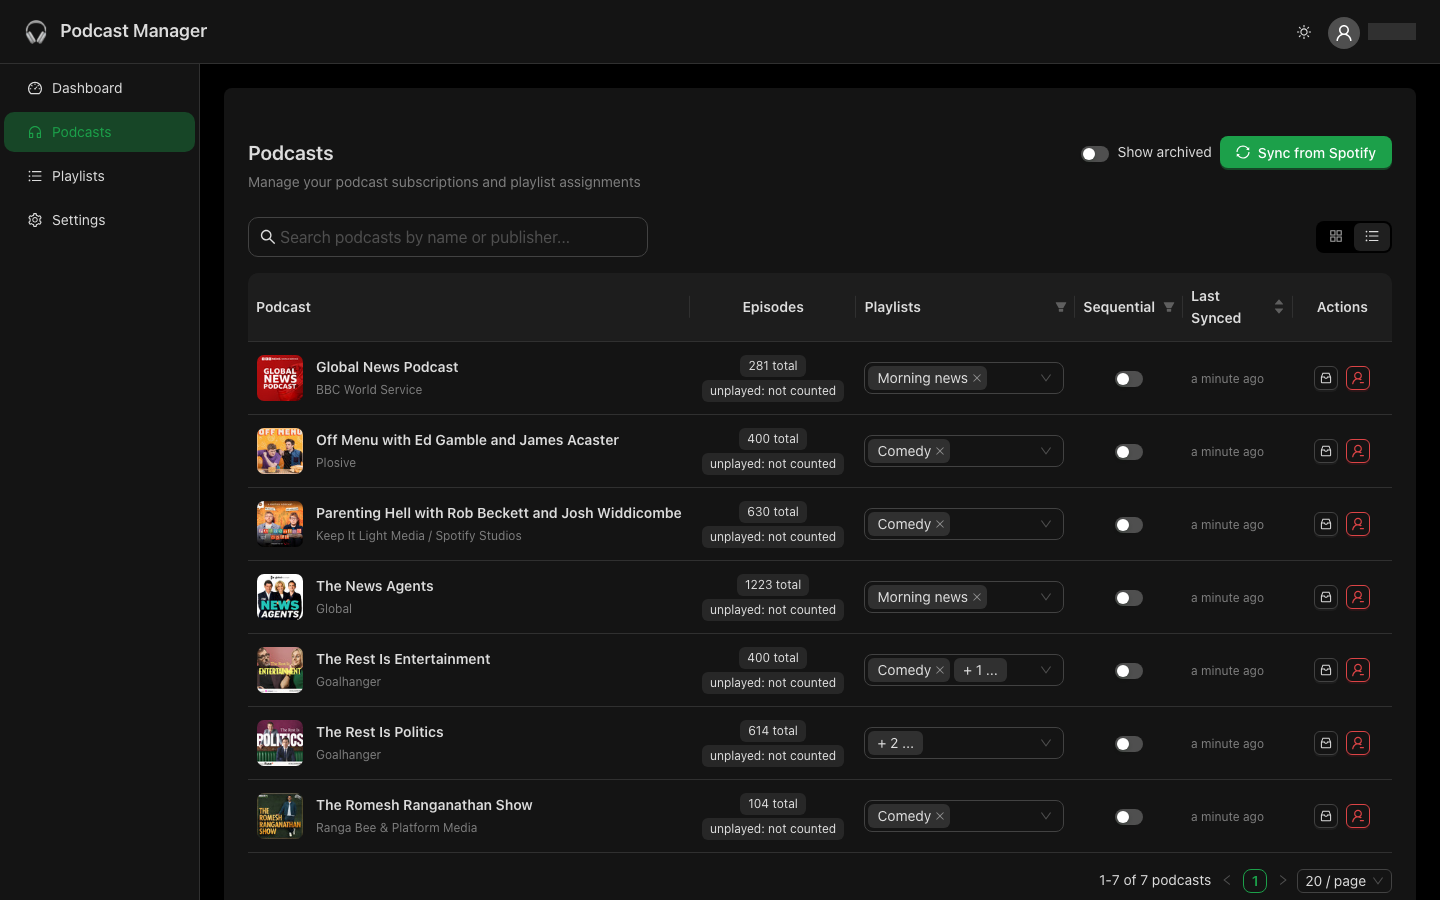
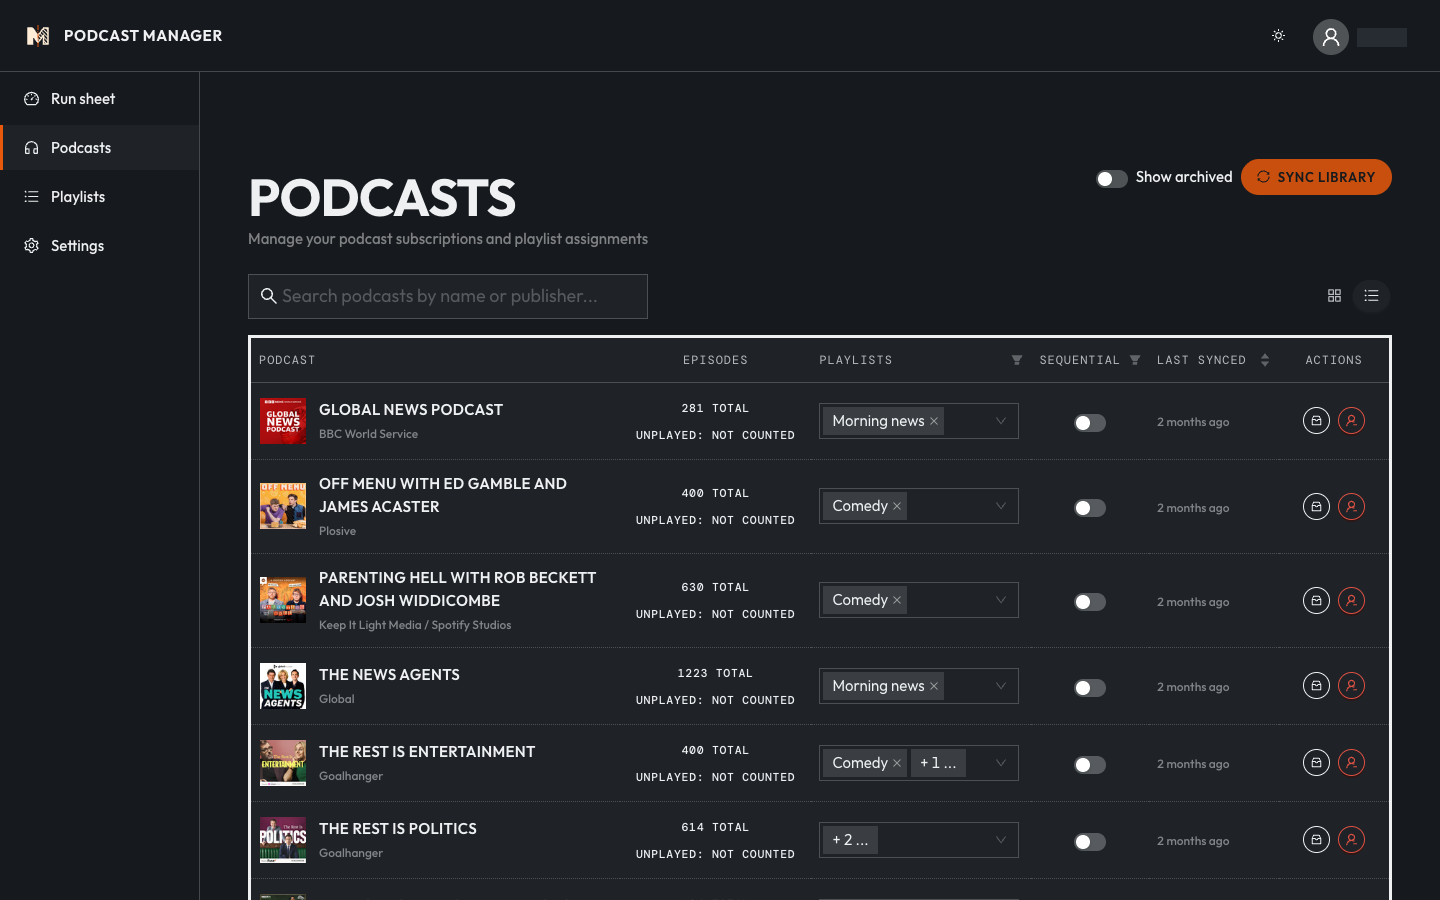
docs: regenerate README screenshots for the parts-list redesign
Recaptured every screen in light and dark from the screenshots fixture
DB, and updated the Run sheet and Playlist detail captions to match.
The capture script can now use an installed browser via
PLAYWRIGHT_CHANNEL (e.g. chrome), and masks with the new theme's raised
surface colour instead of the old Ant greys.

diff --git a/README.md b/README.md
@@ -67,9 +67,9 @@ Each installation serves one Spotify account: registration closes once the first
 
 ## Screenshots
 
-**Dashboard.** Library and playlist stats, with one-click sync and update.
+**Run sheet.** Whether last night's rebuild worked, when the next one runs, and any shows not in a playlist yet, then every playlist with its shows and the rule each will follow. A playlist whose last update was partial or failed says why. Sync and Update All are one click away.
 
-![Dashboard](docs/screenshots/dashboard-light.png)
+![Run sheet](docs/screenshots/dashboard-light.png)
 
 **Podcasts.** Searchable card and table views, with inline playlist assignment, the sequential toggle, archiving and unfollowing.
 
@@ -79,7 +79,7 @@ Each installation serves one Spotify account: registration closes once the first
 
 ![Playlists](docs/screenshots/playlists-light.png)
 
-**Playlist detail.** A playlist's settings and the rule each show will follow on the next rebuild: the playlist default, the sequential hint, or a custom override. Editing podcasts, order and overrides starts here.
+**Playlist detail.** A playlist's settings, its last run, and the rule each show will follow on the next rebuild. Open a show's row to see whether that rule comes from the playlist default, the sequential hint, or a custom override. Editing podcasts, order and overrides starts here.
 
 ![Playlist detail](docs/screenshots/playlist-detail-light.png)
 
@@ -90,7 +90,7 @@ Each installation serves one Spotify account: registration closes once the first
 <details>
 <summary>Dark theme</summary>
 
-![Dashboard, dark](docs/screenshots/dashboard-dark.png)
+![Run sheet, dark](docs/screenshots/dashboard-dark.png)
 ![Podcasts, dark](docs/screenshots/podcasts-dark.png)
 ![Playlists, dark](docs/screenshots/playlists-dark.png)
 ![Playlist detail, dark](docs/screenshots/playlist-detail-dark.png)
@@ -107,7 +107,7 @@ npm run screenshots -- --login        # one-off: complete the Spotify login in t
 npm run screenshots                   # writes docs/screenshots/*.png, light and dark
 ```
 
-The saved session lives in the gitignored `frontend/.screenshots-auth.json`. Account details are masked automatically. Rerun `npm run screenshots` whenever the UI changes.
+The saved session lives in the gitignored `frontend/.screenshots-auth.json`. Account details are masked automatically. Rerun `npm run screenshots` whenever the UI changes. To use your installed Chrome instead of downloading Playwright's Chromium, set `PLAYWRIGHT_CHANNEL=chrome`.
 
 ## Setup
 
